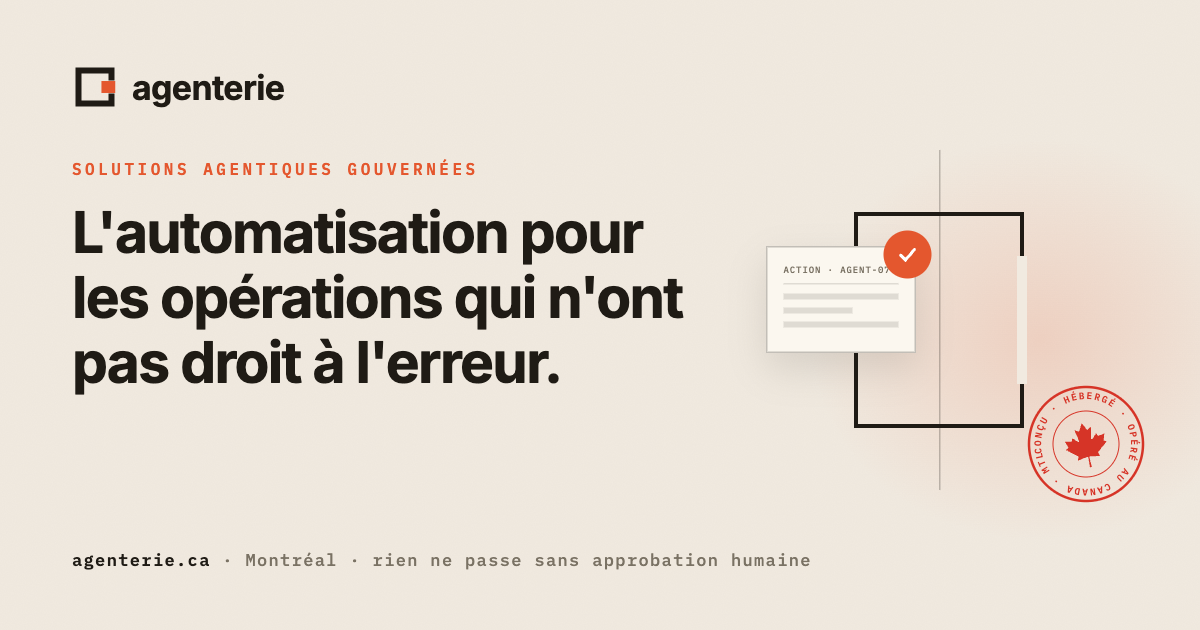
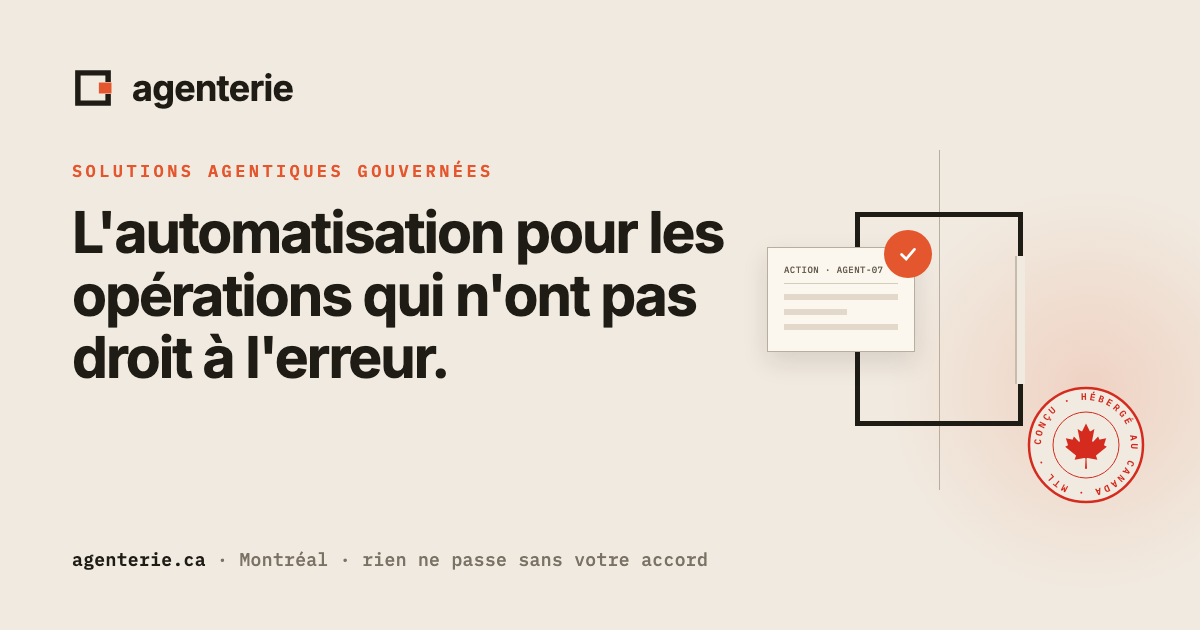
Link preview image: corrected claims
The og.png shown on LinkedIn, Slack and iMessage still read "HÉBERGÉ ·
OPÉRÉ AU CANADA" (and ran into itself as "MTLCONÇU") and "rien ne passe
sans approbation humaine". Rebuilt with "CONÇU · HÉBERGÉ AU CANADA" and
"rien ne passe sans votre accord"; og:image URL versioned so caches
refetch.

diff --git a/index.html b/index.html
@@ -9,7 +9,7 @@
 <meta property="og:title" content="Agenterie — Solutions agentiques gouvernées">
 <meta property="og:description" content="Votre volume grandit, votre équipe n'a pas à suivre. Des agents audités, plafonnés, approuvés par vos gens — livrés en semaines, dans votre infrastructure.">
 <meta property="og:url" content="https://agenterie.ca">
-<meta property="og:image" content="https://agenterie.ca/og.png">
+<meta property="og:image" content="https://agenterie.ca/og.png?v=2026-09-27">
 <meta property="og:image:width" content="1200">
 <meta property="og:image:height" content="630">
 <meta name="twitter:card" content="summary_large_image">
